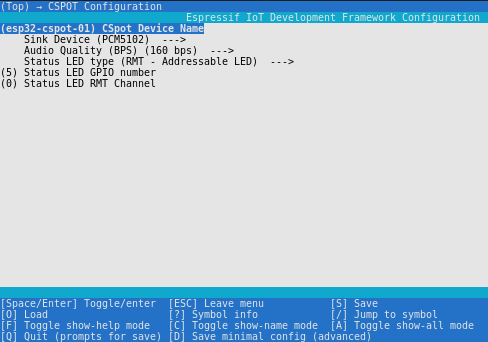
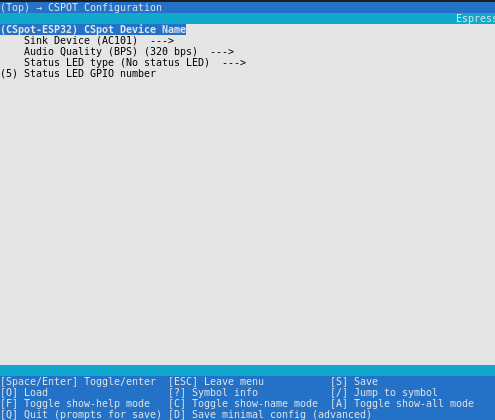
Fix build error in the pipeline

Changed region(s): [[0.0, 0.8187, 1.0, 1.0], [0.0, 0.0, 1.0, 0.2632], [0.584, 0.1754, 0.6148, 0.2047]]

diff --git a/targets/esp32/main/ESPStatusLed.cpp b/targets/esp32/main/ESPStatusLed.cpp
@@ -33,7 +33,6 @@ ESPStatusLed::ESPStatusLed() {
 
 #ifdef CONFIG_CSPOT_STATUS_LED_TYPE_NONE
     ESP_LOGI(TAG, "Status LED is disabled");
-    return;
 #endif
 
 #ifdef CONFIG_CSPOT_STATUS_LED_TYPE_GPIO
@@ -48,6 +47,7 @@ ESPStatusLed::ESPStatusLed() {
     pStrip_a->clear(pStrip_a, 50);
 #endif
 
+#if defined(CONFIG_CSPOT_STATUS_LED_TYPE_GPIO) || defined(CONFIG_CSPOT_STATUS_LED_TYPE_RMT)
     xTaskCreate([](void* _self) {
         ESPStatusLed* self = (ESPStatusLed*)_self;
         
@@ -73,7 +73,7 @@ ESPStatusLed::ESPStatusLed() {
             vTaskDelay(StatusLedBlinkTimings[(int)self->status][1] / portTICK_PERIOD_MS);
         }
     }, "statusled", 2 * 1024, (void*)this, 6, NULL);
-
+#endif
 }
 
 void ESPStatusLed::setStatus(StatusLed newStatus)
